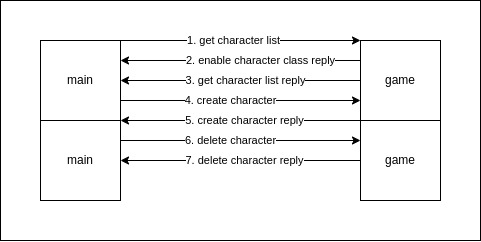
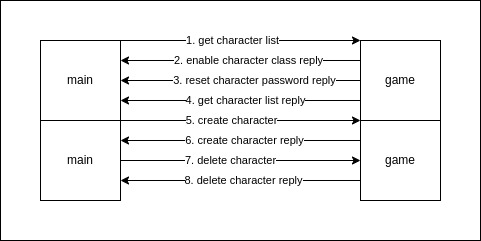
docs: add reset-character

diff --git a/docs/character.md b/docs/character.md
@@ -2,7 +2,7 @@
 
 <img src="character.jpg">
 
-### Get character list
+### Get Character List
 
 #### Request
 
@@ -17,7 +17,7 @@
 | 2     | 0xF3    | c1c2 frame code 0xF300 BE high byte |
 | 3     | 0x00    | c1c2 frame code 0xF300 BE low byte  |
 
-#### Reply
+#### Reply Enable Character Class
 
 ```
 [C1 05 DE 00 1F]
@@ -40,7 +40,22 @@ character class:
 0x10 - GrowLancer
 ```
 
-#### Reply
+#### Reply Reset Character
+
+```
+pack(1)
+[C1 n+4 FA 0A [n]byte]
+```
+
+| Index | Element | Description                         |
+| ----- | ------- | ----------------------------------- |
+| 0     | 0xC1    | c1c2 frame flag                     |
+| 1     | n+4     | c1c2 frame size                     |
+| 2     | 0xFA    | c1c2 frame code 0xFA0A BE high byte |
+| 3     | 0x0A    | c1c2 frame code 0xFA0A BE low byte  |
+| 4~n+3 | [n]byte | reset character password            |
+
+#### Reply Get Character List
 
 ```
 [C1 1C F3 00 1F 00 01 01 byte[36]]
@@ -90,7 +105,7 @@ slot8 -> chars[16] bit5~bit7 bit0~bit1
 chars[17]
 ```
 
-### Create character
+### Create Character
 
 #### Request
 
@@ -147,17 +162,17 @@ character class:
 
 ```
 pack(1)
-[C1 22 F3 02 [10]byte [20]password]
+[C1 15 F3 02 [10]byte [7]password]
 ```
 
 | Index | Element  | Description                         |
 | ----- | -------- | ----------------------------------- |
 | 0     | 0xC1     | c1c2 frame flag                     |
-| 1     | 0x22     | c1c2 frame size                     |
+| 1     | 0x15     | c1c2 frame size                     |
 | 2     | 0xF3     | c1c2 frame code 0xF302 BE high byte |
 | 3     | 0x02     | c1c2 frame code 0xF302 BE low byte  |
-| 4~13  | byte[10] | character name                      |
-| 14~33 | byte[20] | account password                    |
+| 4~13  | [10]byte | character name                      |
+| 14~20 | [7]byte  | reset password last 7 digits        |
 
 #### Reply
 
